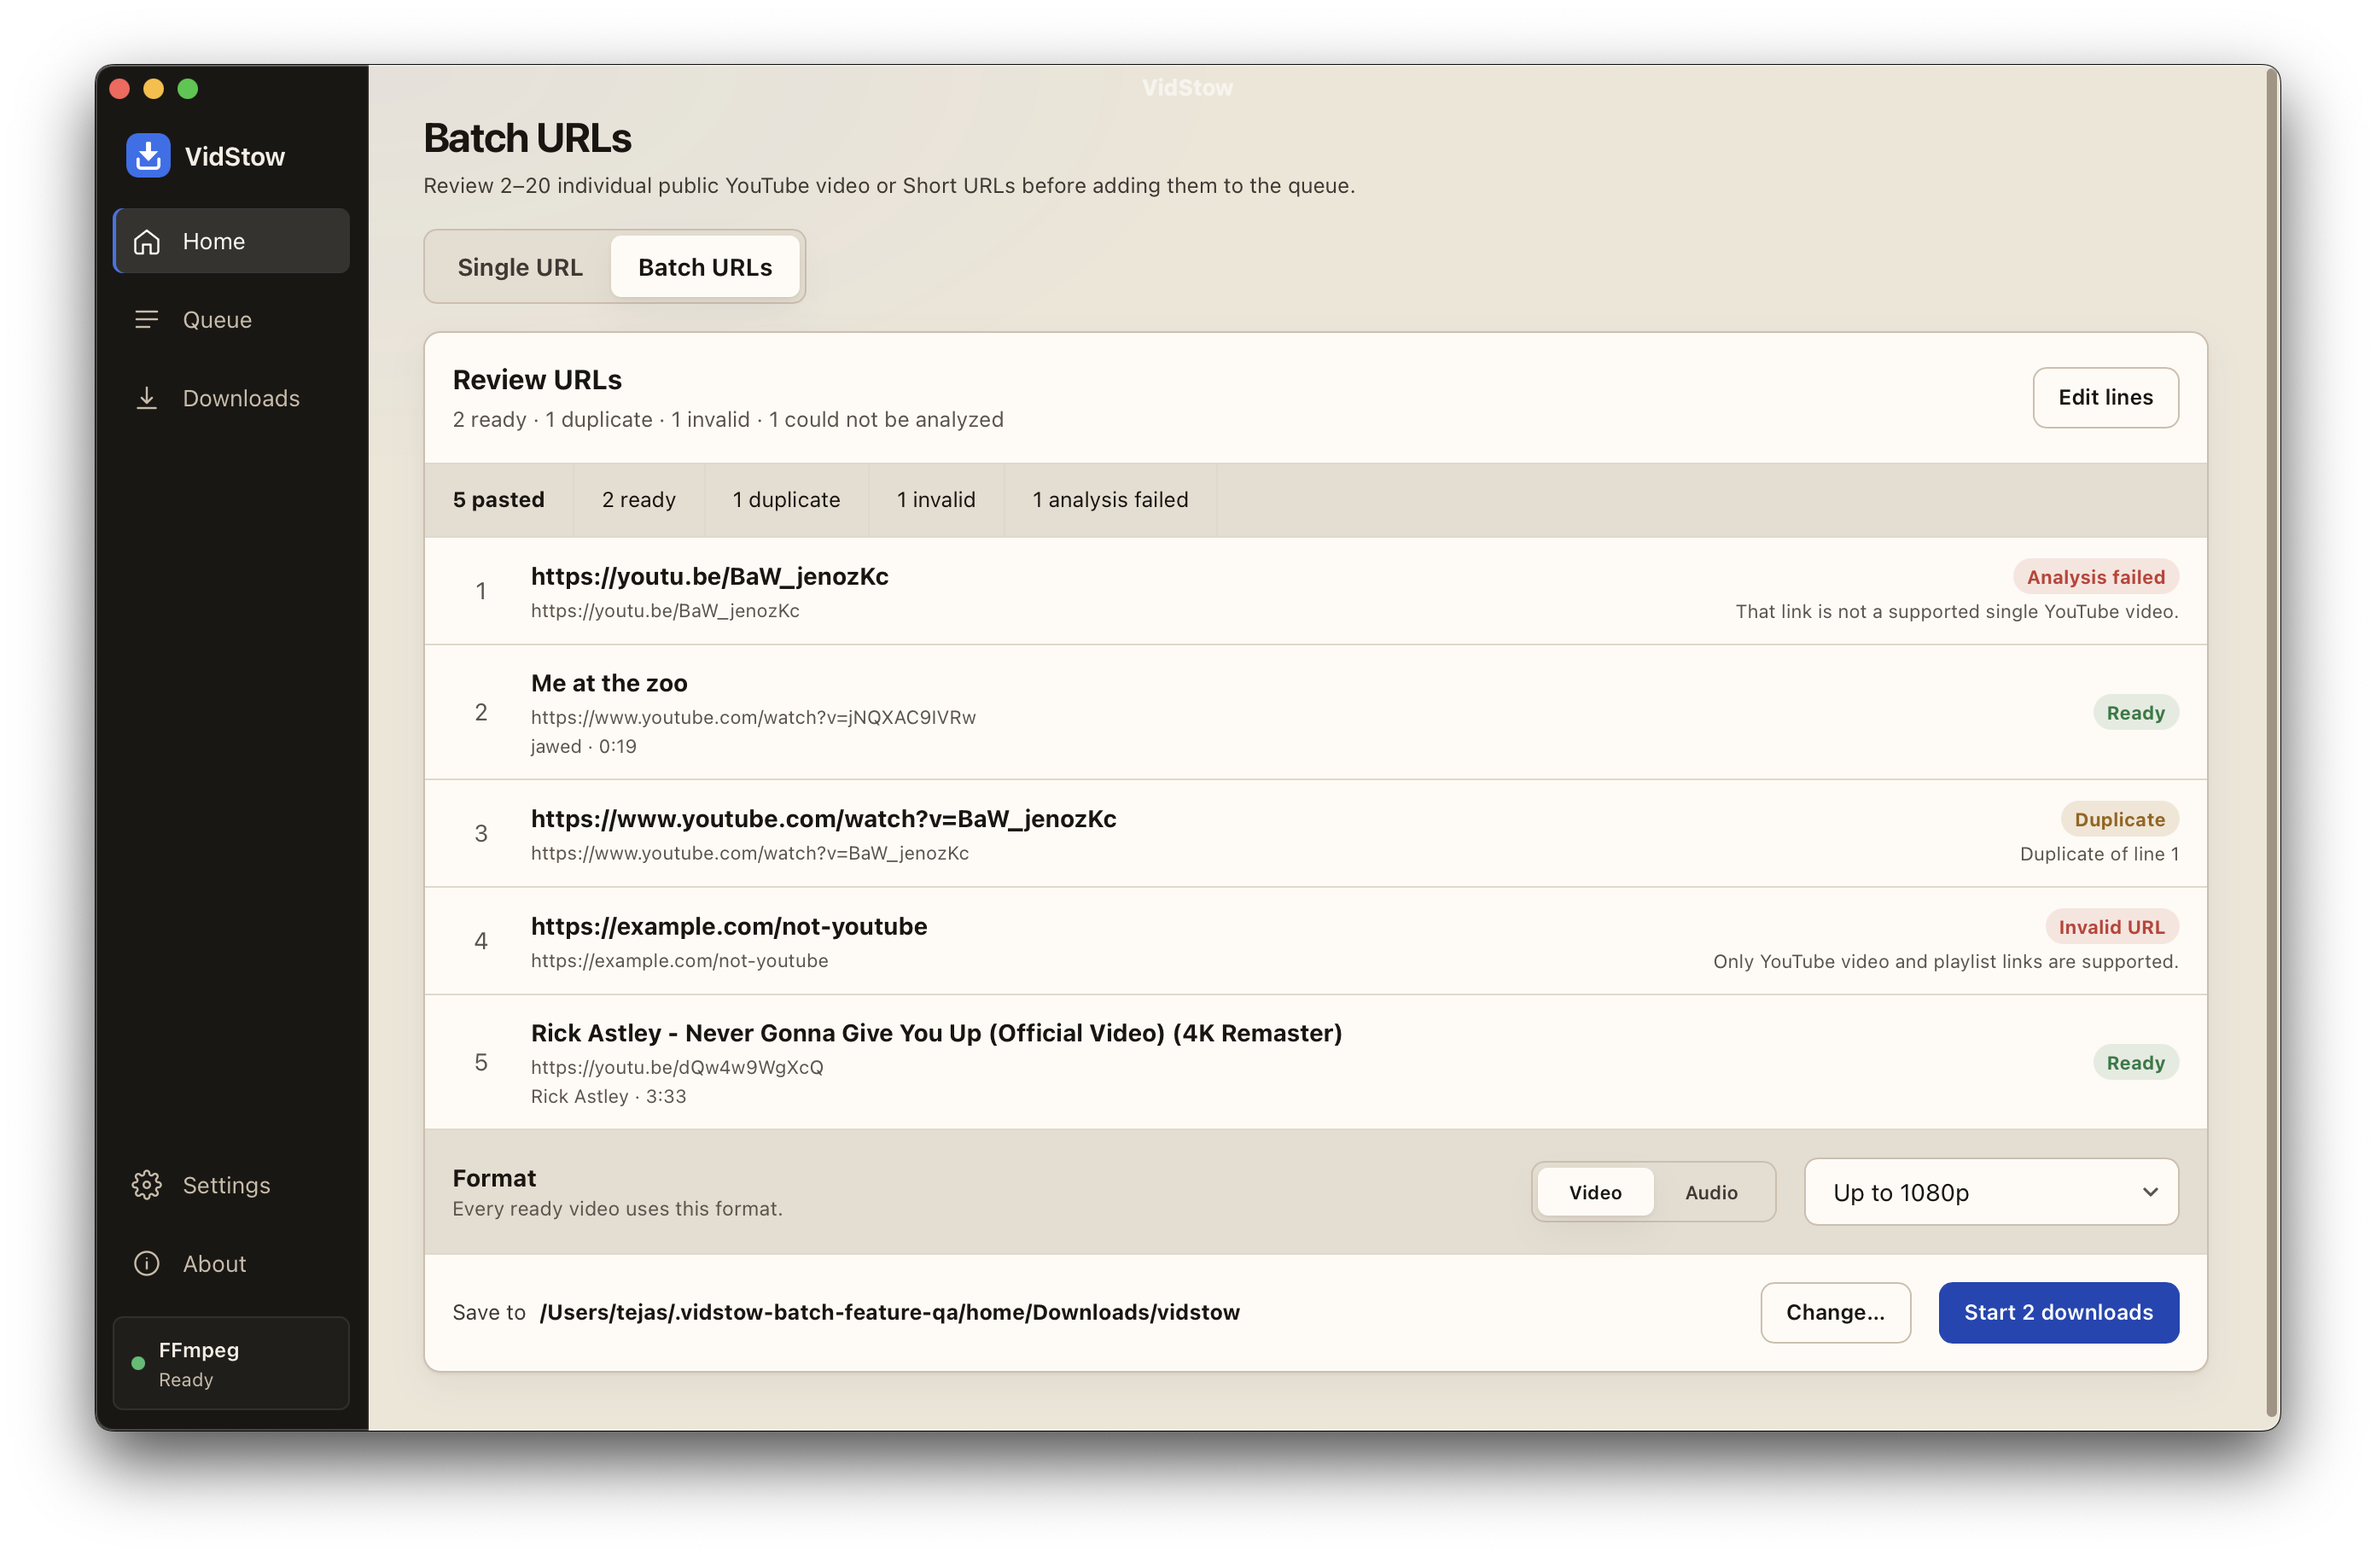
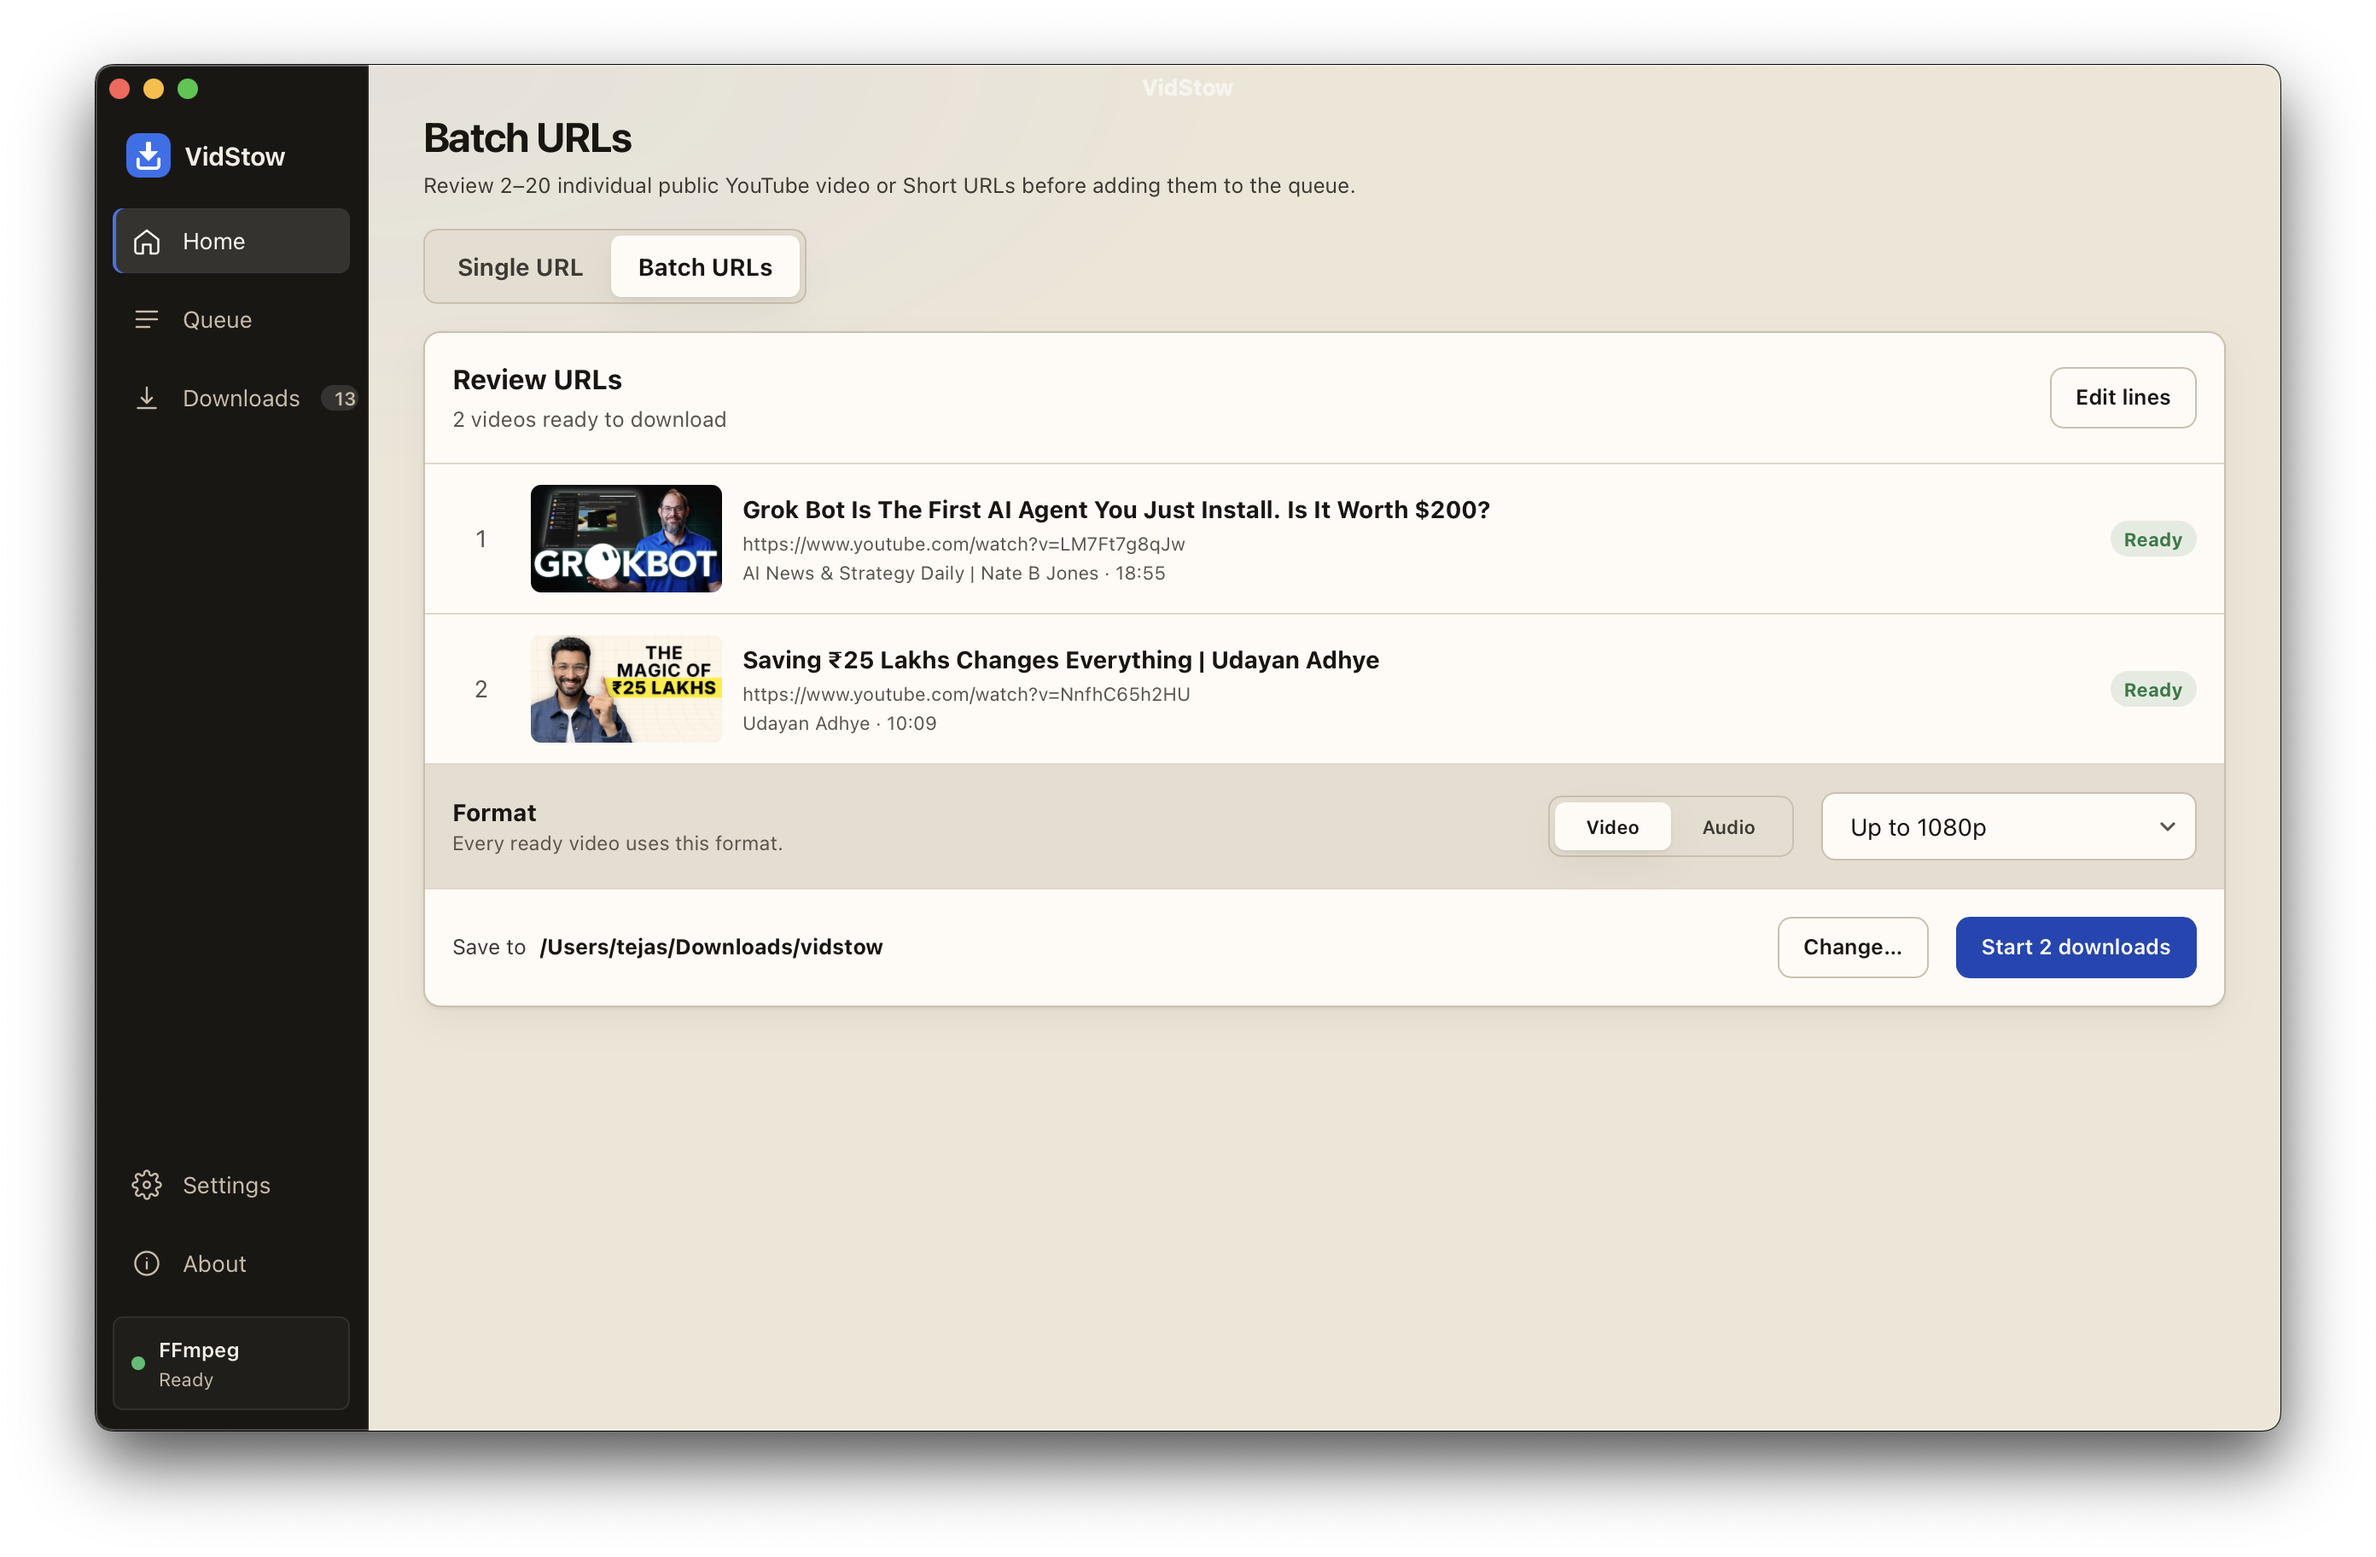
refine batch review presentation

Changed region(s): [[0.1562, 0.0625, 0.9688, 0.9062], [0.125, 0.25, 0.1562, 0.2812]]

diff --git a/frontend/src/pages/Home.svelte b/frontend/src/pages/Home.svelte
@@ -66,6 +66,18 @@
   }
 
   const fallbackThumbnail = (videoId: string) => (videoId ? `https://i.ytimg.com/vi/${videoId}/hqdefault.jpg` : '');
+  const batchReviewSummary = (review: BatchAnalysisView) => {
+    const { pasted, ready, duplicate, invalid, analysisFailed } = review.counts;
+    if (ready === pasted && duplicate === 0 && invalid === 0 && analysisFailed === 0) {
+      return `${ready} ${ready === 1 ? 'video' : 'videos'} ready to download`;
+    }
+    return [
+      ready ? `${ready} ready` : '',
+      duplicate ? `${duplicate} duplicate` : '',
+      invalid ? `${invalid} invalid` : '',
+      analysisFailed ? `${analysisFailed} could not be analyzed` : '',
+    ].filter(Boolean).join(' · ');
+  };
   const hideBrokenImage = (event: Event) => {
     (event.currentTarget as HTMLImageElement).style.display = 'none';
   };
@@ -401,26 +413,25 @@
         <header class="batch-review-header">
           <div>
             <h2 id="batch-review-title">Review URLs</h2>
-            <p aria-live="polite">
-              {batchReview.counts.ready} ready · {batchReview.counts.duplicate} duplicate · {batchReview.counts.invalid} invalid{batchReview.counts.analysisFailed ? ` · ${batchReview.counts.analysisFailed} could not be analyzed` : ''}
-            </p>
+            <p aria-live="polite">{batchReviewSummary(batchReview)}</p>
             {#if !batchTokenValid}<p class="batch-expired" role="alert">This review expired. Edit the lines and review them again.</p>{/if}
           </div>
           <button type="button" class="app-btn" on:click={editBatchLines} disabled={batchBusy}>Edit lines</button>
         </header>
 
-        <div class="batch-counts" aria-label="Batch review counts">
-          <strong>{batchReview.counts.pasted} pasted</strong>
-          <span>{batchReview.counts.ready} ready</span>
-          <span>{batchReview.counts.duplicate} duplicate</span>
-          <span>{batchReview.counts.invalid} invalid</span>
-          {#if batchReview.counts.analysisFailed}<span>{batchReview.counts.analysisFailed} analysis failed</span>{/if}
-        </div>
-
         <div class="batch-lines" role="list" aria-label="Reviewed batch URLs">
           {#each batchReview.items as item (item.lineNumber)}
             <article class="batch-line" data-status={item.status} role="listitem">
               <span class="batch-line-number" aria-label={`Line ${item.lineNumber}`}>{item.lineNumber}</span>
+              <div class="batch-thumbnail" aria-hidden="true">
+                <svg viewBox="0 0 24 24" aria-hidden="true">
+                  <rect x="3" y="5" width="18" height="14" rx="2"></rect>
+                  <path d="m10 9 5 3-5 3Z"></path>
+                </svg>
+                {#if item.status === 'ready' && item.thumbnail}
+                  <img src={item.thumbnail} alt="" referrerpolicy="no-referrer" on:error={hideBrokenImage} />
+                {/if}
+              </div>
               <div class="batch-line-copy">
                 <strong title={item.title || item.input}>{item.title || item.input}</strong>
                 <span title={item.input}>{item.input}</span>
@@ -725,19 +736,10 @@
   .batch-review-header { padding: var(--sp-4); }
   .batch-review-header h2 { margin: 0 0 3px; font-size: var(--fs-lg); }
   .batch-review-header .batch-expired { margin-top: var(--sp-2); color: var(--status-danger); }
-  .batch-counts {
-    display: flex;
-    flex-wrap: wrap;
-    gap: 0;
-    border-top: 1px solid var(--border-subtle);
-    border-bottom: 1px solid var(--border-subtle);
-    background: var(--surface-sunken);
-  }
-  .batch-counts > * { padding: var(--sp-3) var(--sp-4); border-right: 1px solid var(--border-subtle); font-size: var(--fs-sm); }
-  .batch-lines { display: flex; min-height: 0; flex-direction: column; }
+  .batch-lines { display: flex; min-height: 0; flex-direction: column; border-top: 1px solid var(--border-subtle); }
   .batch-line {
     display: grid;
-    grid-template-columns: 34px minmax(0, 1fr) minmax(150px, 230px);
+    grid-template-columns: 34px 112px minmax(0, 1fr) minmax(150px, 230px);
     align-items: center;
     gap: var(--sp-3);
     padding: var(--sp-3) var(--sp-4);
@@ -745,6 +747,20 @@
     background: var(--surface-base);
   }
   .batch-line-number { color: var(--text-muted); font-variant-numeric: tabular-nums; text-align: center; }
+  .batch-thumbnail {
+    width: 112px;
+    aspect-ratio: 16 / 9;
+    position: relative;
+    display: grid;
+    place-items: center;
+    overflow: hidden;
+    border-radius: var(--r-sm);
+    background: var(--surface-sunken);
+    color: var(--text-muted);
+  }
+  .batch-thumbnail img { position: absolute; inset: 0; width: 100%; height: 100%; object-fit: cover; }
+  .batch-thumbnail svg { width: 28px; height: 28px; fill: none; stroke: currentColor; stroke-width: 1.5; }
+  .batch-thumbnail svg path { fill: currentColor; stroke: none; }
   .batch-line-copy,
   .batch-line-state { display: flex; min-width: 0; flex-direction: column; gap: 2px; }
   .batch-line-copy strong,
@@ -1120,8 +1136,9 @@
     .batch-composer-footer .app-btn,
     .batch-review-header .app-btn,
     .batch-save-bar .app-btn { width: 100%; }
-    .batch-line { grid-template-columns: 28px minmax(0, 1fr); }
-    .batch-line-state { grid-column: 2; align-items: flex-start; text-align: left; }
+    .batch-line { grid-template-columns: 28px 72px minmax(0, 1fr); }
+    .batch-thumbnail { width: 72px; }
+    .batch-line-state { grid-column: 3; align-items: flex-start; text-align: left; }
     .save-bar { grid-template-columns: 1fr auto; }
     .destination { grid-column: 1 / -1; }
     .queue { grid-column: 1 / -1; }

diff --git a/frontend/tests/home.dom.test.ts b/frontend/tests/home.dom.test.ts
@@ -179,7 +179,7 @@ describe('Home analysis authority', () => {
       token: 'batch-token', expiresAt: '2099-08-22T12:00:00Z',
       counts: { pasted: 5, ready: 3, duplicate: 1, invalid: 1, analysisFailed: 0 },
       items: [
-        { lineNumber: 1, input: 'https://youtu.be/fixture0001', status: 'ready', messageKey: 'batch.ready', message: 'Ready', title: 'First' },
+        { lineNumber: 1, input: 'https://youtu.be/fixture0001', status: 'ready', messageKey: 'batch.ready', message: 'Ready', title: 'First', thumbnail: 'https://i.ytimg.com/vi/fixture0001/hqdefault.jpg' },
         { lineNumber: 2, input: 'https://youtu.be/fixture0002', status: 'ready', messageKey: 'batch.ready', message: 'Ready', title: 'Second' },
         { lineNumber: 3, input: 'https://www.youtube.com/watch?v=fixture0001', status: 'duplicate', messageKey: 'batch.duplicate', message: 'Duplicate of line 1', duplicateOfLine: 1 },
         { lineNumber: 4, input: 'not-a-url', status: 'invalid', messageKey: 'batch.invalid_url', message: 'Only YouTube links are supported.' },
@@ -195,6 +195,9 @@ describe('Home analysis authority', () => {
 
     expect(await screen.findByText('Duplicate of line 1')).toBeInTheDocument();
     expect(screen.getByText('Only YouTube links are supported.')).toBeInTheDocument();
+    expect(screen.getByText('3 ready · 1 duplicate · 1 invalid')).toBeInTheDocument();
+    expect(screen.queryByLabelText('Batch review counts')).not.toBeInTheDocument();
+    expect(document.querySelector('.batch-thumbnail img')).toHaveAttribute('src', 'https://i.ytimg.com/vi/fixture0001/hqdefault.jpg');
     const start = screen.getByRole('button', { name: 'Start 3 downloads' });
     expect(start).toBeEnabled();
     await user.click(start);
@@ -218,6 +221,7 @@ describe('Home analysis authority', () => {
     await user.type(input, 'one\ntwo');
     await user.click(screen.getByRole('button', { name: 'Review URLs' }));
     expect(await screen.findByRole('button', { name: 'Start 2 downloads' })).toBeEnabled();
+    expect(screen.getByText('2 videos ready to download')).toBeInTheDocument();
     await user.click(screen.getByRole('button', { name: 'Edit lines' }));
     expect(screen.queryByRole('button', { name: 'Start 2 downloads' })).not.toBeInTheDocument();
     expect(screen.getByLabelText('YouTube video or Short URLs')).toHaveValue('one\ntwo');

diff --git a/batch.go b/batch.go
@@ -198,6 +198,10 @@ func analyzeBatchLines(ctx context.Context, analyzer batchChildAnalyzer, parsed 
 				if strings.TrimSpace(summary.Channel) == "" {
 					summary.Channel = "YouTube"
 				}
+				summary.Thumbnail = strings.TrimSpace(summary.Thumbnail)
+				if summary.Thumbnail == "" {
+					summary.Thumbnail = "https://i.ytimg.com/vi/" + candidate.line.VideoID + "/hqdefault.jpg"
+				}
 				results[index].view = BatchAnalysisItemView{
 					LineNumber: candidate.line.LineNumber, Input: candidate.line.Input,
 					Status: BatchStatusReady, MessageKey: "batch.ready", Message: "Ready",

diff --git a/batch_test.go b/batch_test.go
@@ -50,6 +50,10 @@ func TestAnalyzeBatchLinesPreservesMixedResults(t *testing.T) {
 	if len(analyzed) != 1 || analyzed[0].videoID != "abcdefghijk" || analyzed[0].lineNumber != 1 {
 		t.Fatalf("analyzed = %+v", analyzed)
 	}
+	wantThumbnail := "https://i.ytimg.com/vi/abcdefghijk/hqdefault.jpg"
+	if view.Items[0].Thumbnail != wantThumbnail || analyzed[0].summary.Thumbnail != wantThumbnail {
+		t.Fatalf("thumbnail fallback: view=%q cached=%q, want %q", view.Items[0].Thumbnail, analyzed[0].summary.Thumbnail, wantThumbnail)
+	}
 }
 
 type concurrencyBatchAnalyzer struct {

diff --git a/docs/RELIABLE_BATCH_DOWNLOADS_IMPLEMENTATION_PLAN.md b/docs/RELIABLE_BATCH_DOWNLOADS_IMPLEMENTATION_PLAN.md
@@ -76,8 +76,10 @@ The Batch URLs mode has four UI states:
    - Show bounded progress without presenting unverified lines as valid.
 3. **Review**
    - Remain on Home; do not render Queue jobs or Queue navigation state in this view.
-   - Show counts for pasted, ready, duplicate, invalid, and analysis-failed lines.
+   - Show one compact outcome summary beneath **Review URLs**. When every line is ready, use copy such as `2 videos ready to download`; for mixed results, show only non-zero ready, duplicate, invalid, and analysis-failed counts.
+   - Do not repeat those values in a second summary strip; the primary action retains the admitted count because it confirms the action's scope.
    - Show every original non-empty line in input order with a status and safe explanation.
+   - Show a 16:9 thumbnail for every successfully analyzed video, with a deterministic YouTube thumbnail fallback and a neutral placeholder when an image is unavailable. Keep non-ready rows aligned using the same placeholder slot.
    - For a duplicate, identify the first matching line, for example `Duplicate of line 1`.
    - Provide **Edit lines** to return to input and invalidate the current review/token.
    - Show one format selector and the current default output folder with **Change…**.
@@ -91,16 +93,14 @@ The Batch URLs mode has four UI states:
 Approved review structure:
 
 ```text
-Batch URLs
+Review URLs
 3 ready · 1 duplicate · 1 invalid
 
-[5 pasted] [3 ready] [1 duplicate] [1 invalid]
-
-1  youtube.com/...       Ready
-2  youtu.be/...          Duplicate of line 1
-3  youtube.com/...       Ready
-4  example.com/...       Invalid URL
-5  youtube.com/...       Ready
+1  [thumbnail]  youtube.com/...       Ready
+2  [placeholder] youtu.be/...         Duplicate of line 1
+3  [thumbnail]  youtube.com/...       Ready
+4  [placeholder] example.com/...      Invalid URL
+5  [thumbnail]  youtube.com/...       Ready
 
 Format       [Video | Audio]
 Save to      /Users/...                 [Change…]
@@ -458,6 +458,7 @@ Keep this section current throughout implementation.
 - 2026-08-22: Reviewed and merged startup recovery PR #76, then rebased this branch onto the resulting `origin/main` merge commit `43c7d24`.
 - 2026-08-22: Manually tested a mixed five-line batch in the production macOS app: two ready videos, one canonical duplicate, one invalid host, and one safe analysis failure. Started both ready downloads, verified the expanded durable parent and stable child order, completed both files, restarted the app, and verified the restored `2 of 2 complete` collection.
 - 2026-08-22: Manual review exposed stale speed/ETA text on a completed child. Updated the backend queue projection to clear live transfer telemetry for completed rows and added a regression test.
+- 2026-08-22: Product review identified redundant review counts and missing analyzed-video artwork. Removed the duplicate count strip, made the remaining summary conditional and outcome-focused, added aligned 16:9 thumbnails/placeholders, and added a backend YouTube-thumbnail fallback plus regression coverage.
 
 ### Plan changes
 
